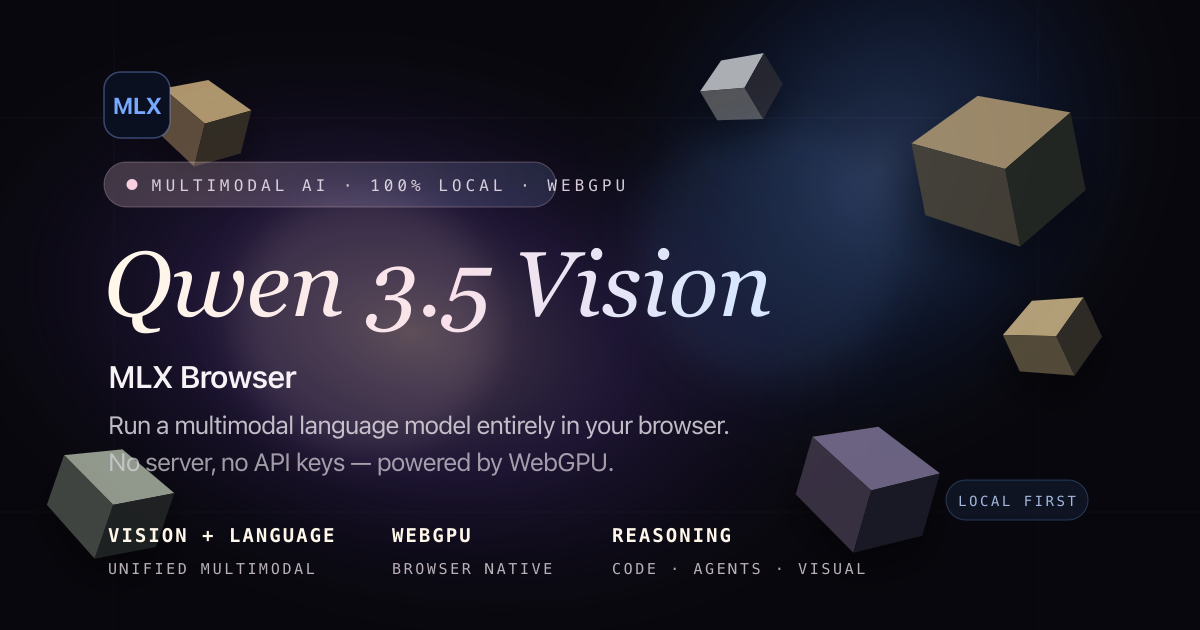
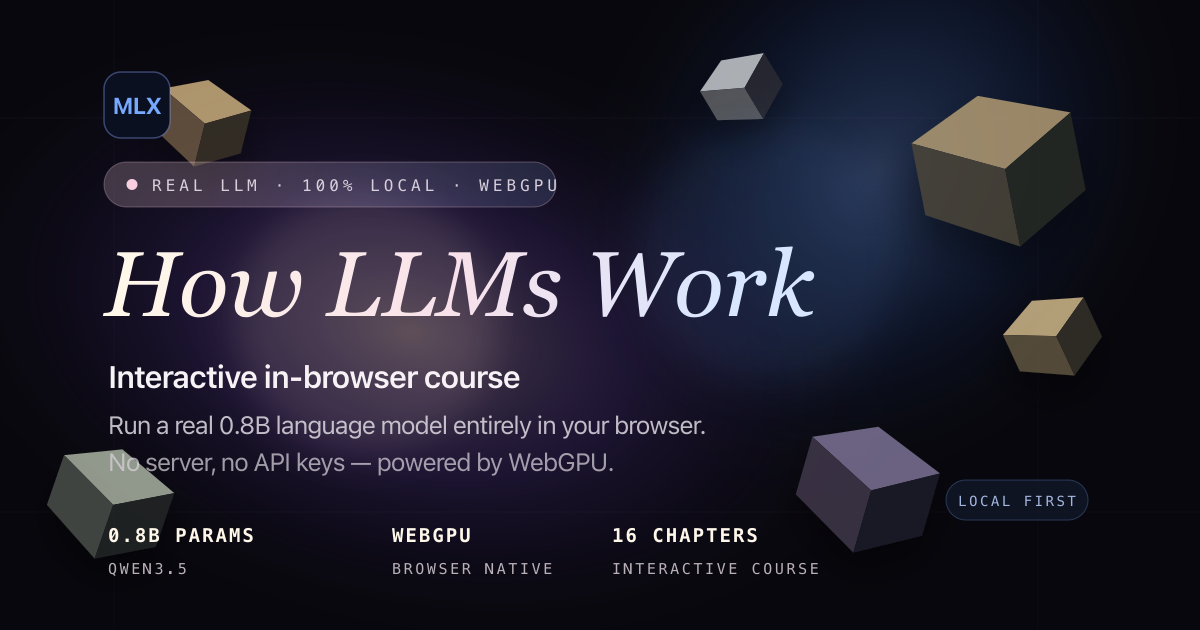
feat(browser): refresh identity from "Qwen 3.5 Vision" VLM to "How LLMs Work" course
This deployment loads Qwen3.5-0.8B, a text LLM — but the visible landing hero,
chat header, SPA shell <head>, and OG image still sold a "Qwen 3.5 Vision"
multimodal vision-language model. That was factually wrong (no vision in this
deployment) and contradicted the new SEO identity now emitted at prerender
time. Align every user-facing surface with the course identity.

- landing hero: "How LLMs Work" + accurate spec cards (0.8B params /
  16 chapters / 100% local); keeps both Load-model and Start-learning CTAs
- chat header: "Qwen 3.5 Vision" -> "Qwen3.5 · 0.8B"
- demo/index.html shell head: title/description/OG/Twitter -> course identity
- og-image.svg + regenerated og-image.png: course social card

diff --git a/packages/browser/demo/components/landing/Landing.tsx b/packages/browser/demo/components/landing/Landing.tsx
@@ -42,13 +42,13 @@ export function Landing({
     <div className="overlay-screen">
       <DriftingLibrary />
       <div className="landing-content">
-        <div className="landing-tag">Multimodal AI · 100% Local · WebGPU</div>
+        <div className="landing-tag">Real LLM · 100% Local · WebGPU</div>
         <h1 className="landing-title">
-          Qwen 3.5 <em>Vision</em>
+          How LLMs <em>Work</em>
         </h1>
         <p className="landing-sub">
-          Run a multimodal vision-language model entirely in your browser. No server, no API keys — powered by{' '}
-          <code>@mlx-node/browser</code> and WebGPU.
+          Run a real 0.8B language model (Qwen3.5) entirely in your browser, then learn exactly how it works —
+          layer by layer. No server, no API keys — powered by <code>@mlx-node/browser</code> and WebGPU.
         </p>
 
         <div className="landing-void-ad" aria-label="Hosted on Void Platform">
@@ -59,16 +59,16 @@ export function Landing({
 
         <div className="landing-specs">
           <div className="spec">
-            <div className="spec-value">Vision + Language</div>
-            <div className="spec-label">Unified Multimodal</div>
+            <div className="spec-value">0.8B params</div>
+            <div className="spec-label">Qwen3.5 · runs live</div>
           </div>
           <div className="spec">
-            <div className="spec-value">201 Languages</div>
-            <div className="spec-label">Global Coverage</div>
+            <div className="spec-value">{CHAPTERS.length} chapters</div>
+            <div className="spec-label">Interactive course</div>
           </div>
           <div className="spec">
-            <div className="spec-value">Reasoning</div>
-            <div className="spec-label">Code · Agents · Visual</div>
+            <div className="spec-value">100% local</div>
+            <div className="spec-label">WebGPU · no server</div>
           </div>
         </div>
 
@@ -107,7 +107,7 @@ export function Landing({
         )}
       </div>
 
-      <img className="landing-mascot" src="/capybara.png" alt="Qwen capybara mascot" />
+      <img className="landing-mascot" src="/capybara.png" alt="Capybara mascot" />
 
       <div className="landing-footer">
         Built with <code>@mlx-node/browser</code>

diff --git a/packages/browser/demo/index.html b/packages/browser/demo/index.html
@@ -3,21 +3,21 @@
   <head>
     <meta charset="UTF-8" />
     <meta name="viewport" content="width=device-width, initial-scale=1.0" />
-    <title>MLX Browser — Qwen 3.5 Vision</title>
+    <title>How LLMs Work — Run a Real Language Model in Your Browser</title>
     <meta
       name="description"
-      content="Run a multimodal Qwen 3.5 vision-language model entirely in your browser with MLX Browser and WebGPU."
+      content="An interactive course on how large language models work — step through 16 chapters while a real 0.8B model (Qwen3.5) runs live in your browser with WebGPU. No install, no API keys."
     />
     <meta property="og:type" content="website" />
     <meta property="og:url" content="https://mlx.void.app/" />
-    <meta property="og:title" content="MLX Browser — Qwen 3.5 Vision" />
-    <meta property="og:description" content="A local-first WebGPU playground for multimodal AI in the browser." />
+    <meta property="og:title" content="How LLMs Work — Run a Real Language Model in Your Browser" />
+    <meta property="og:description" content="An interactive course on how LLMs work, with a real 0.8B model (Qwen3.5) running live in your browser via WebGPU." />
     <meta property="og:image" content="https://mlx.void.app/og-image.png" />
     <meta property="og:image:width" content="1200" />
     <meta property="og:image:height" content="630" />
     <meta name="twitter:card" content="summary_large_image" />
-    <meta name="twitter:title" content="MLX Browser — Qwen 3.5 Vision" />
-    <meta name="twitter:description" content="A local-first WebGPU playground for multimodal AI in the browser." />
+    <meta name="twitter:title" content="How LLMs Work — Run a Real Language Model in Your Browser" />
+    <meta name="twitter:description" content="An interactive course on how LLMs work, with a real 0.8B model (Qwen3.5) running live in your browser via WebGPU." />
     <meta name="twitter:image" content="https://mlx.void.app/og-image.png" />
     <meta name="theme-color" content="#08070D" />
     <link rel="preconnect" href="https://fonts.googleapis.com" />

diff --git a/packages/browser/demo/components/chat/ChatHeader.tsx b/packages/browser/demo/components/chat/ChatHeader.tsx
@@ -7,7 +7,7 @@ export function ChatHeader({ onReset }: ChatHeaderProps) {
     <div className="chat-header">
       <div className="chat-avatar">Q</div>
       <div style={{ display: 'flex', flexDirection: 'column', gap: 2 }}>
-        <div className="chat-header-title">Qwen 3.5 Vision</div>
+        <div className="chat-header-title">Qwen3.5 · 0.8B</div>
         <div className="chat-header-status">Ready on WebGPU</div>
       </div>
       <div style={{ marginLeft: 'auto' }}>
